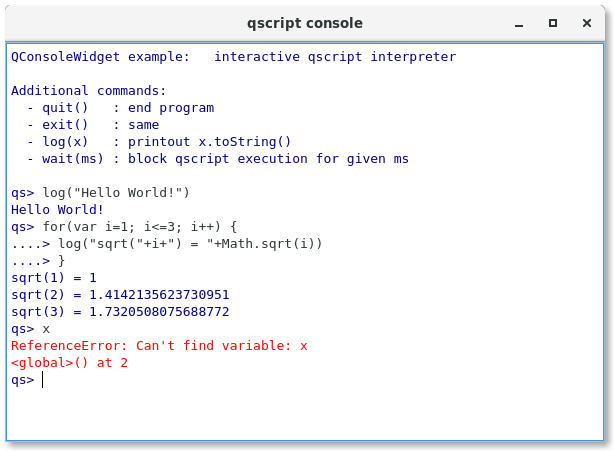
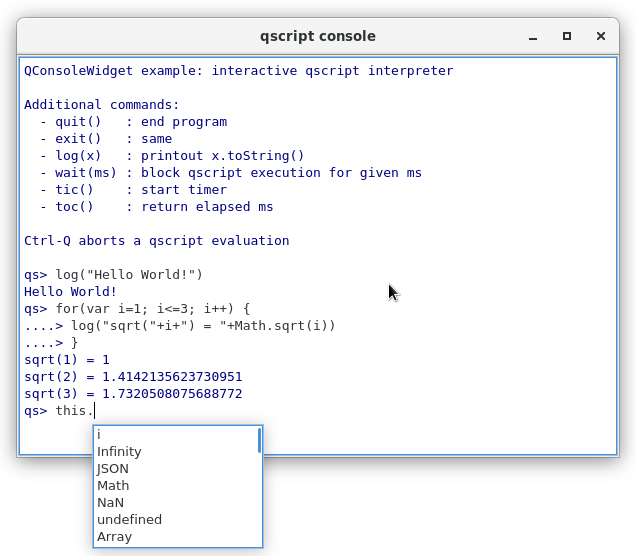
Updated README

Changed region(s): [[0.0, 0.0, 1.0, 0.9933], [0.6189, 0.5277, 0.6498, 0.5588], [0.5879, 0.4967, 0.6189, 0.5277]]

diff --git a/README.md b/README.md
@@ -7,7 +7,7 @@ It can be used as an interactive scripting terminal or a log window.
 Features include standard console-like editing, command history, 
 formatted input, output & error streams.
 
-TODO: tab completion, syntax highlighting
+TODO: syntax highlighting
 
 ## Usage
 
@@ -20,7 +20,7 @@ w.writeStdOut("enter command> ");
 w.setMode(QConsoleWidget::Input);
 QObject::connect(&w,SIGNAL(consoleCommand(QString)),MyQObject,SLOT(evalCommand(QString)))
 ...
-MyQObjet::evalCommand(const QString code)
+MyQObjet::evalCommand(const QString& code)
 {
     ...
 }
